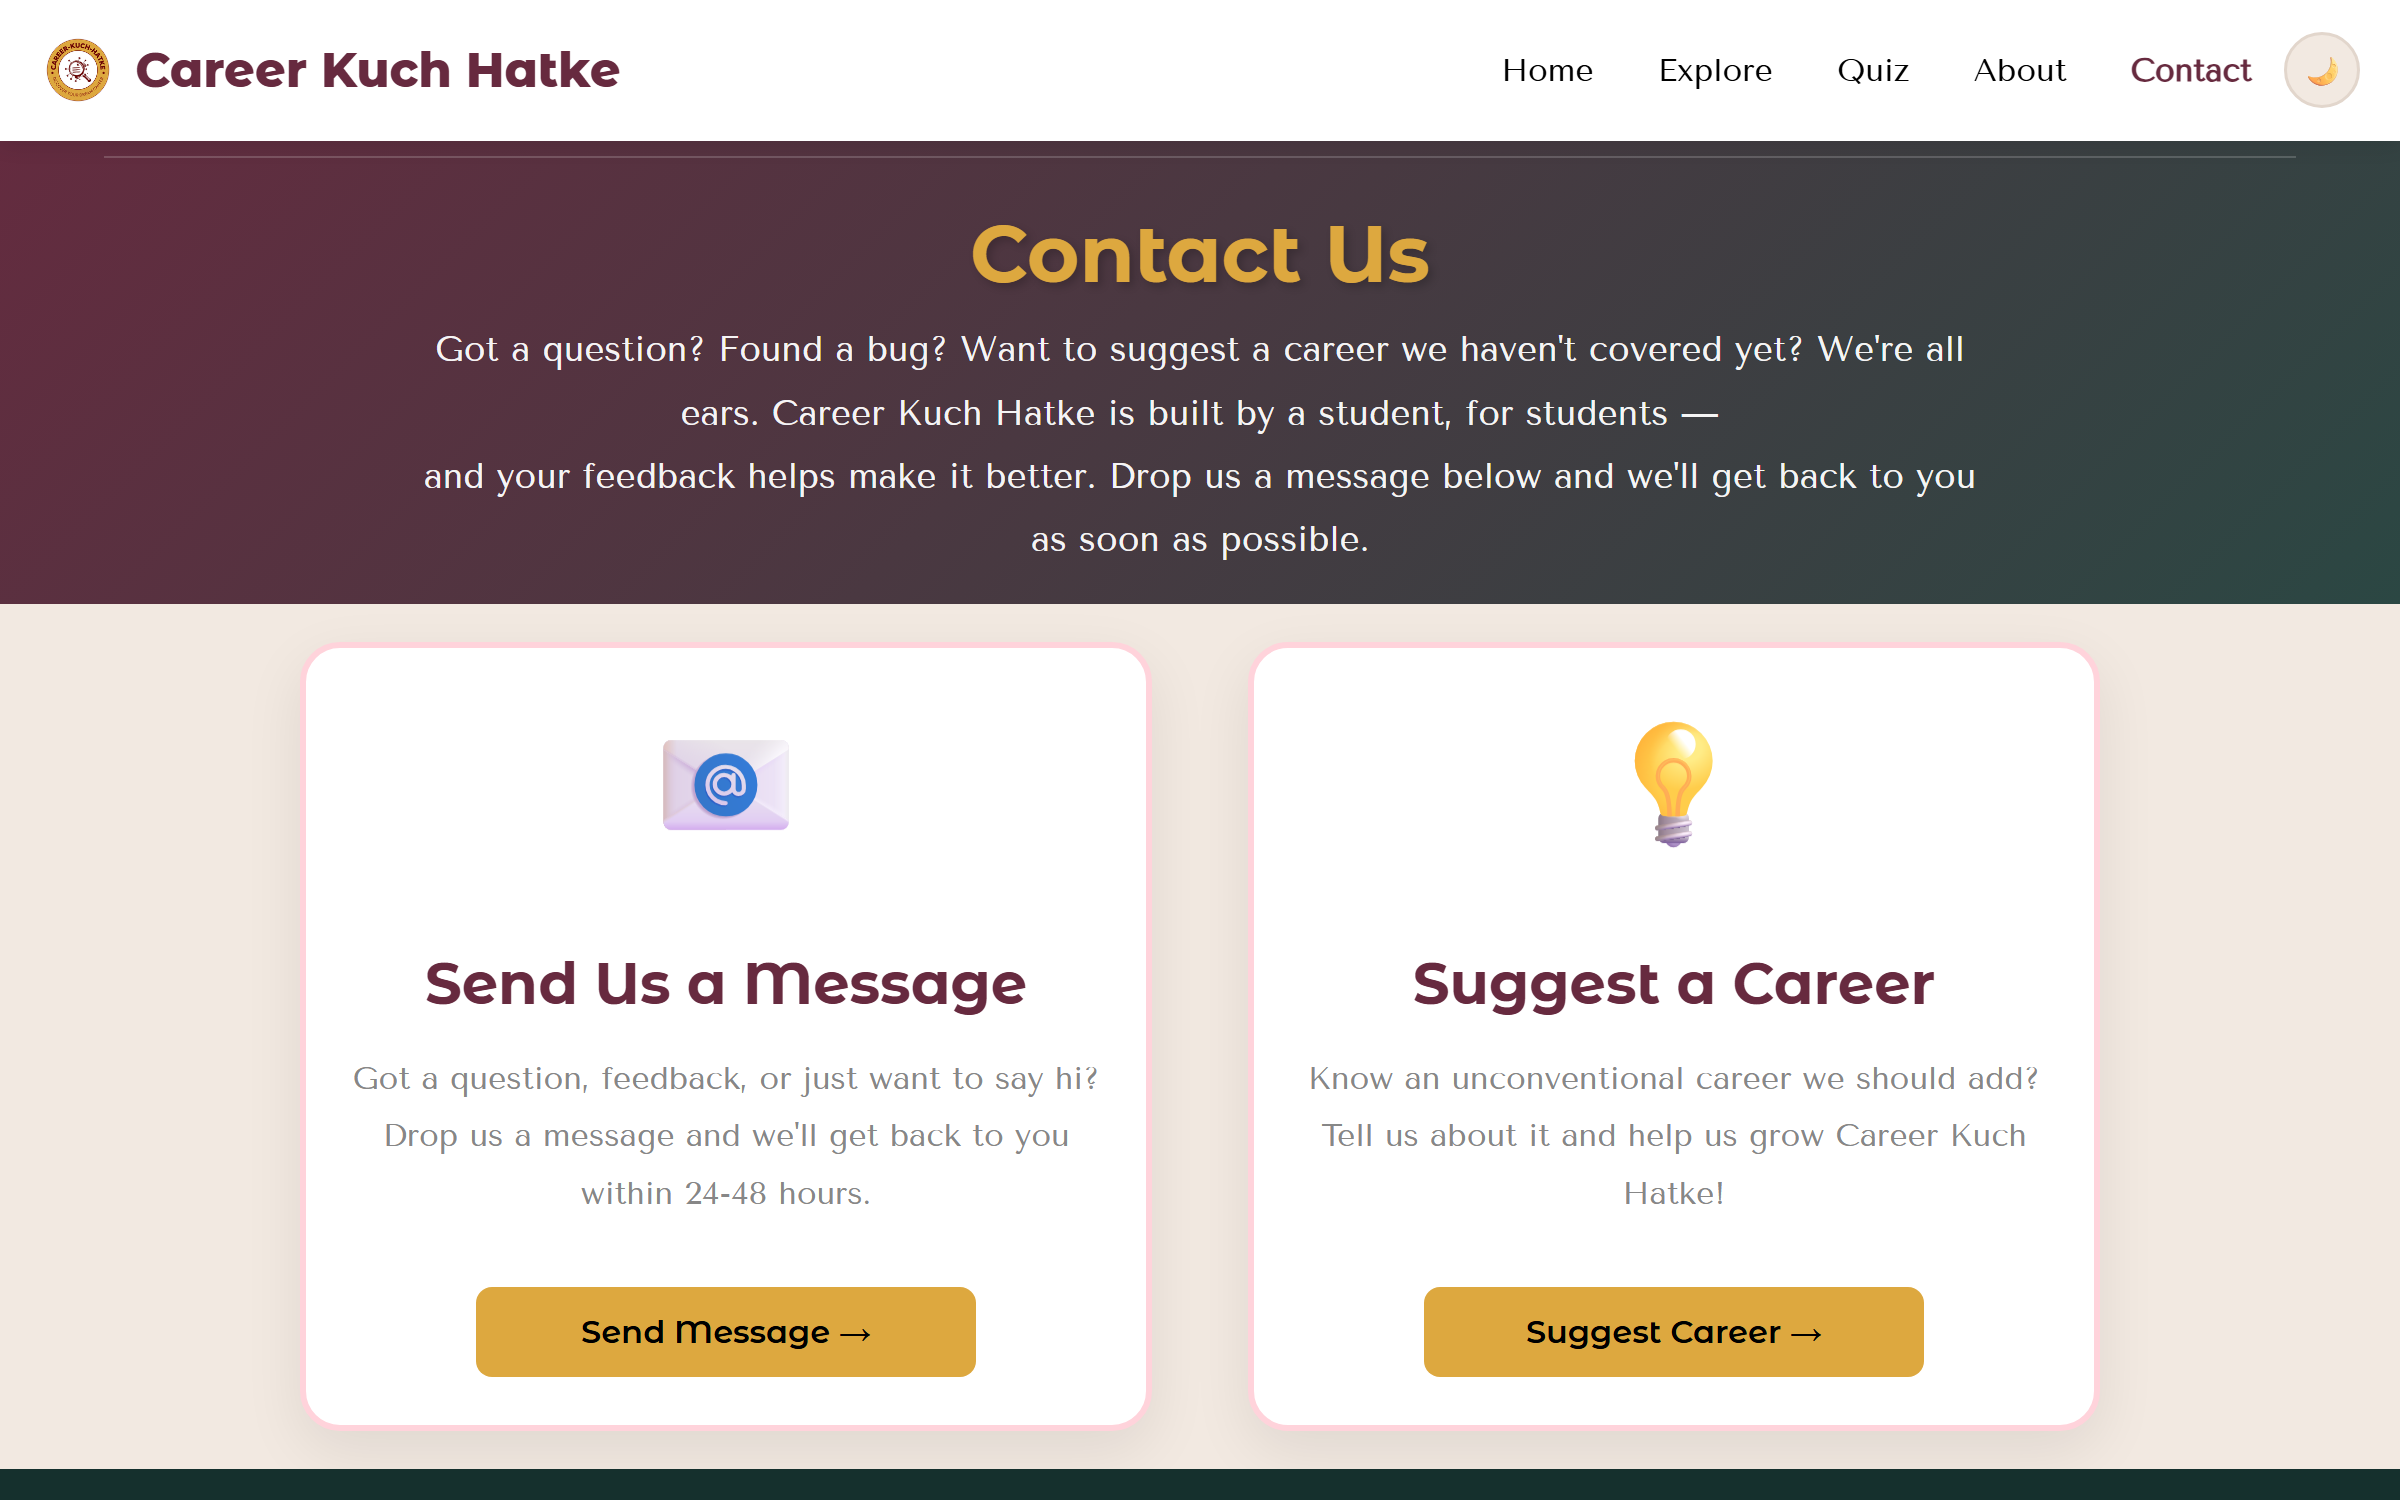
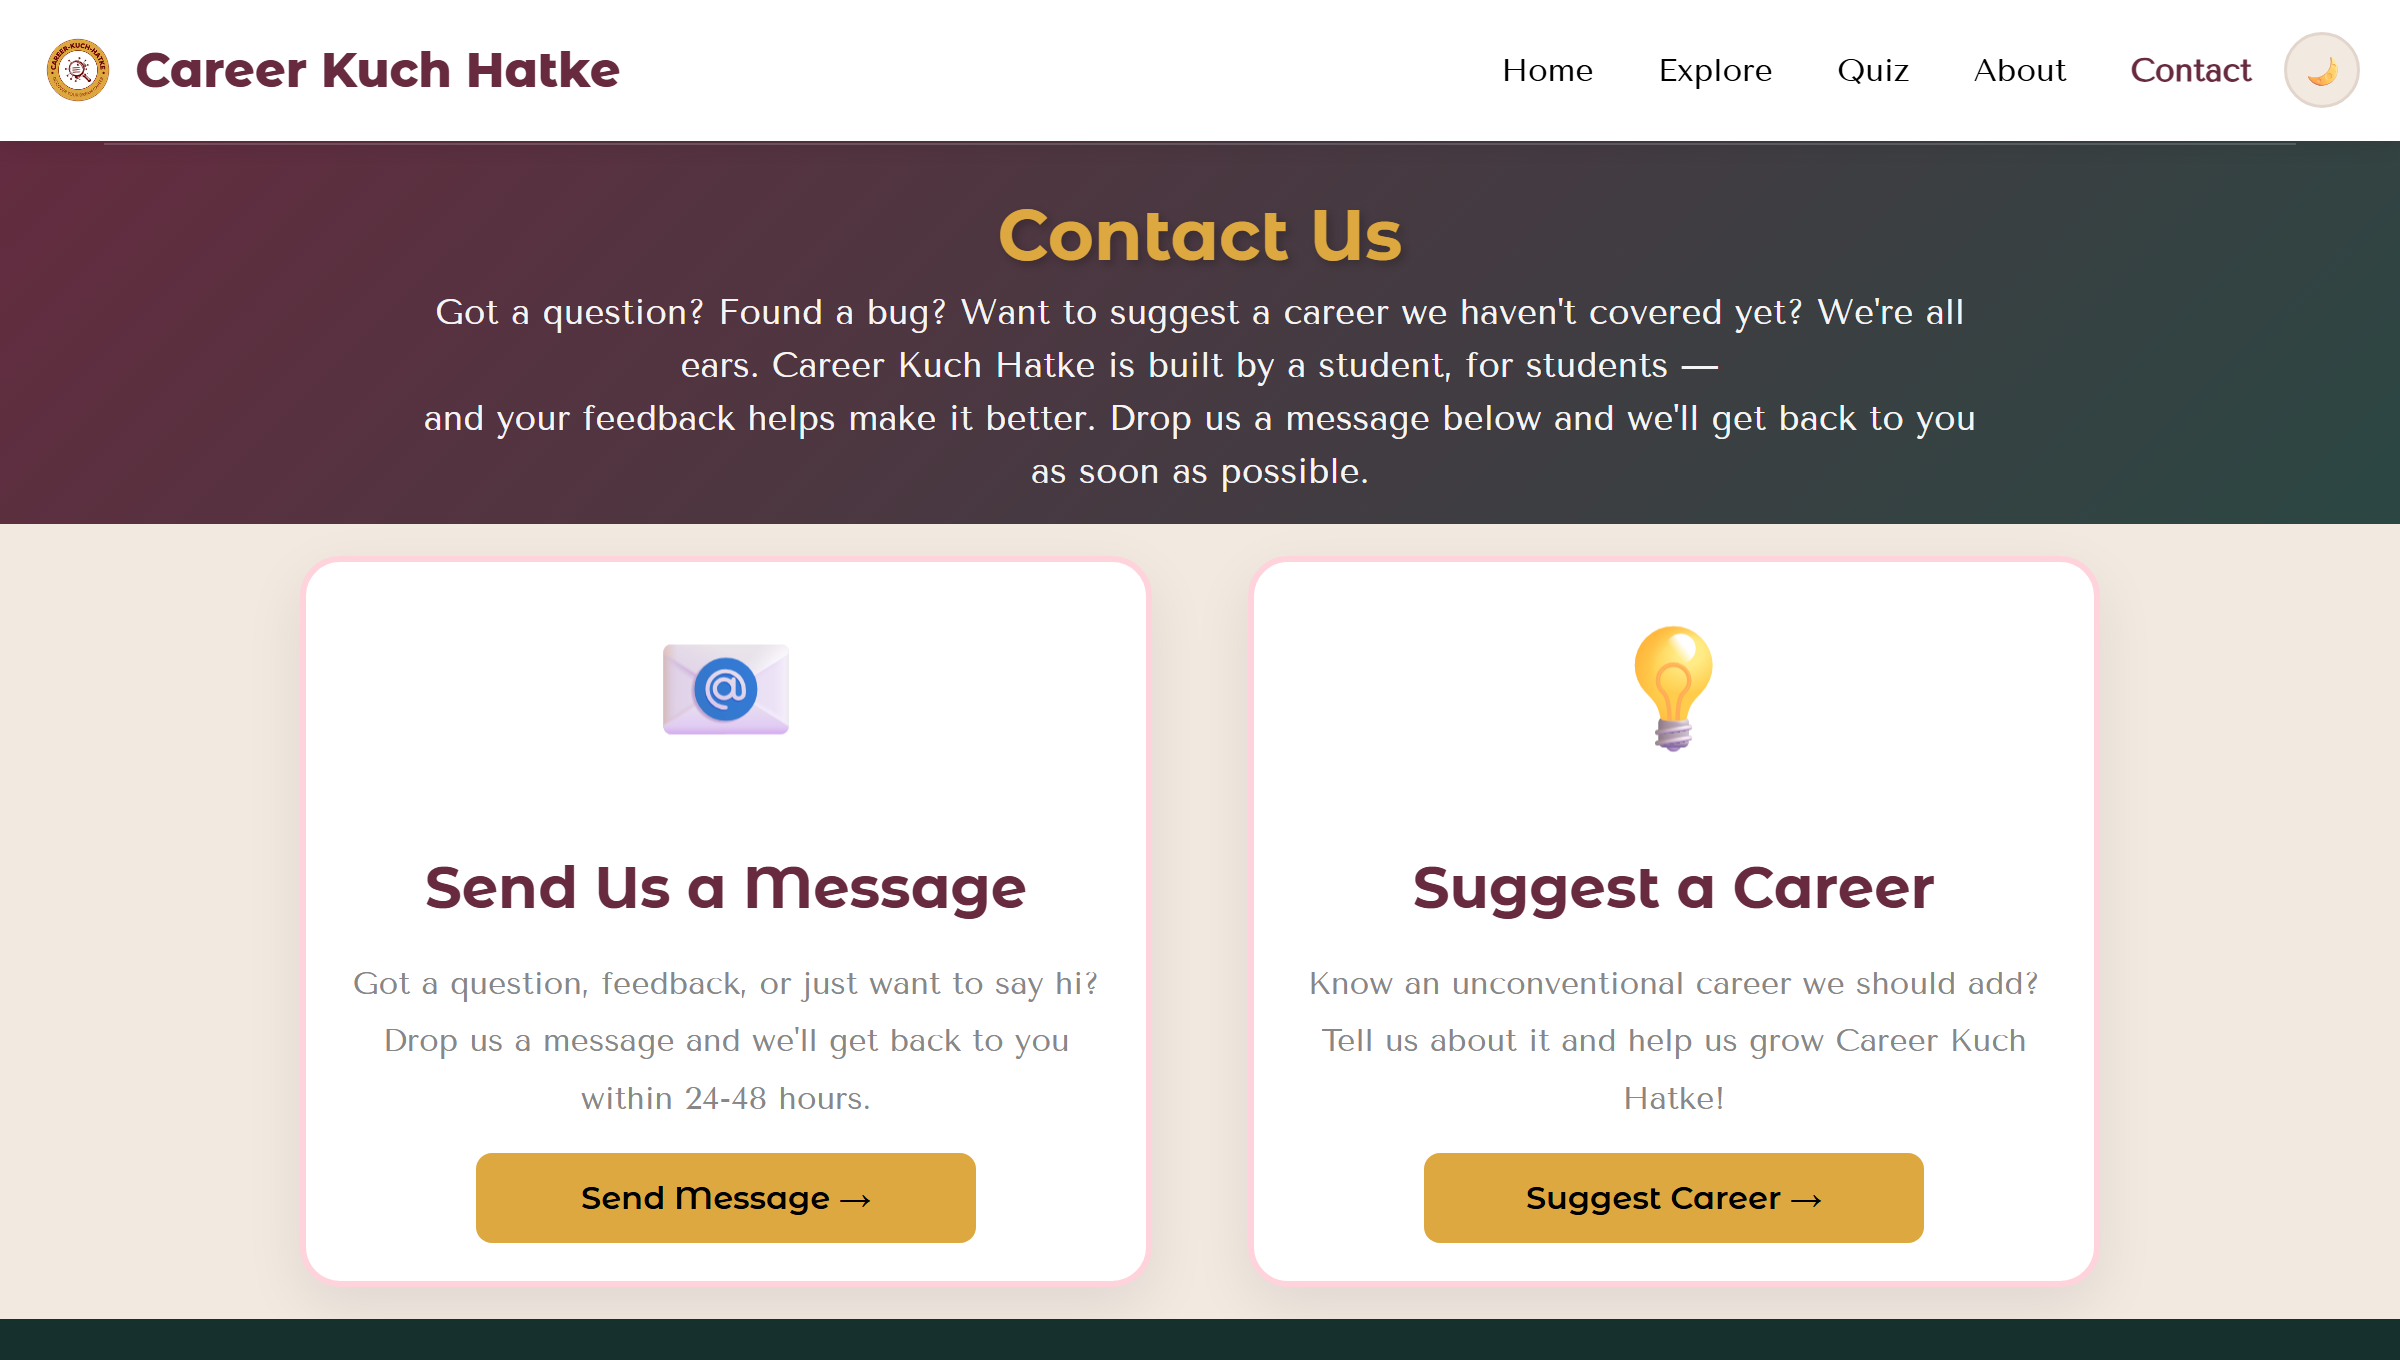
Eliminate all cropped screenshot elements: hide sliced sidebar, tune card padding, and align 1200x680 aspect ratios

diff --git a/report.html b/report.html
@@ -1692,7 +1692,7 @@ jobs:
           <div class="screenshot-card-box">
             <div class="img-frame">
               <img
-                src="images/screenshot-home.png?v=2"
+                src="images/screenshot-home.png?v=3"
                 alt="Figure 8.1: Home Page Hero Interface"
               />
             </div>
@@ -1713,7 +1713,7 @@ jobs:
             <div class="screenshot-card-box">
               <div class="img-frame">
                 <img
-                  src="images/screenshot-roadmap.png?v=2"
+                  src="images/screenshot-roadmap.png?v=3"
                   alt="Figure 8.2: Career Profile & Specification"
                 />
               </div>
@@ -1732,7 +1732,7 @@ jobs:
             <div class="screenshot-card-box">
               <div class="img-frame">
                 <img
-                  src="images/screenshot-contact.png?v=2"
+                  src="images/screenshot-contact.png?v=3"
                   alt="Figure 8.3: Contact & Suggestion Portal"
                 />
               </div>

diff --git a/css/contact.css b/css/contact.css
@@ -29,17 +29,24 @@
 
 /* Rest of your contact page styles... */
 body[data-compact="true"] .page-header {
-  padding: 2.2rem 2rem 1rem 2rem !important;
+  padding: 1.8rem 2rem 0.8rem 2rem !important;
 }
 body[data-compact="true"] .page-header h1 {
-  font-size: 2.5rem !important;
-  margin-bottom: 0.5rem !important;
+  font-size: 2.2rem !important;
+  margin-bottom: 0.3rem !important;
+}
+body[data-compact="true"] .page-header p {
+  margin-bottom: 0 !important;
+  line-height: 1.5 !important;
 }
 body[data-compact="true"] .contact-options-section {
-  padding: 1.2rem 0 !important;
+  padding: 1rem 0 !important;
 }
 body[data-compact="true"] .contact-option-card {
-  padding: 1.5rem 1.2rem !important;
+  padding: 1.2rem 1.2rem !important;
+}
+body[data-compact="true"] .contact-option-card p {
+  margin-bottom: 0.8rem !important;
 }
 .contact-form-section,
 .suggest-career-section {

diff --git a/css/career-detail.css b/css/career-detail.css
@@ -45,6 +45,24 @@
   margin-top: 0;
 }
 
+body[data-compact="true"] .sidebar,
+body[data-compact="true"] .details-sidebar {
+  display: none !important;
+}
+body[data-compact="true"] .details-grid {
+  display: block !important;
+}
+body[data-compact="true"] .main-content {
+  width: 100% !important;
+  max-width: 100% !important;
+}
+body[data-compact="true"] .career-hero {
+  padding: 6.5rem 0 2rem 0 !important;
+}
+body[data-compact="true"] .career-details {
+  padding: 1.5rem 0 2rem 0 !important;
+}
+
 .hero-content {
   text-align: center;
   max-width: 900px;
